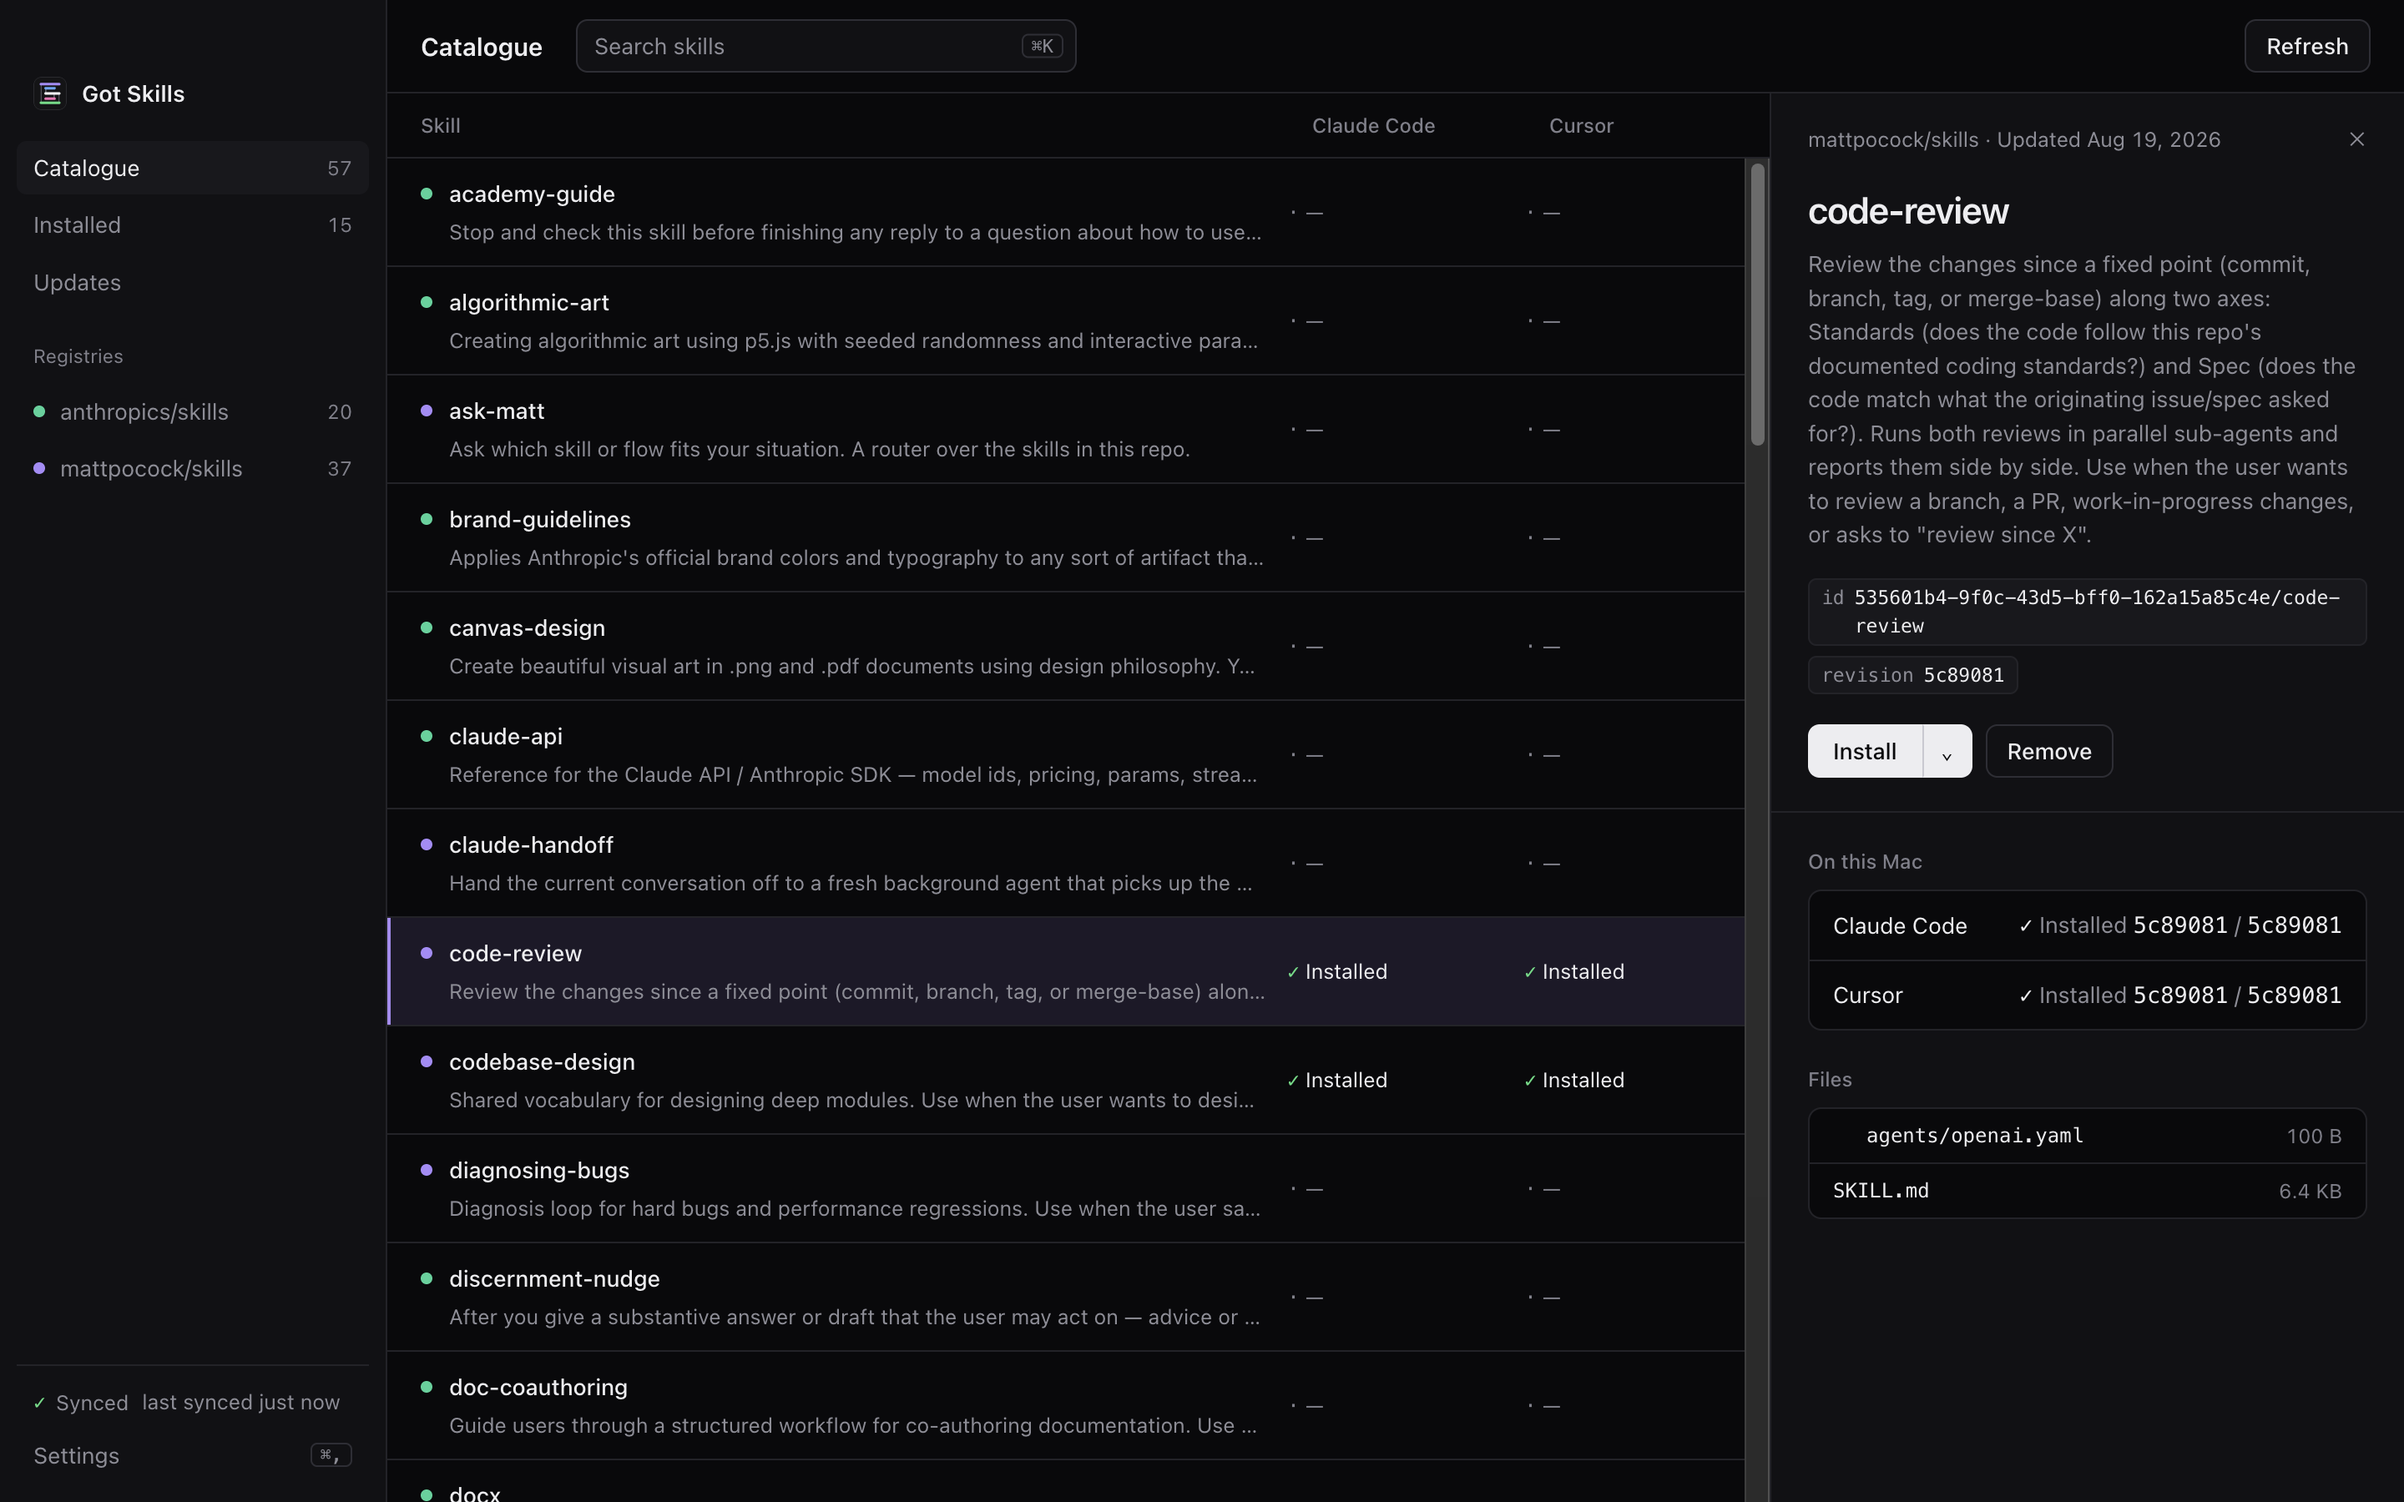
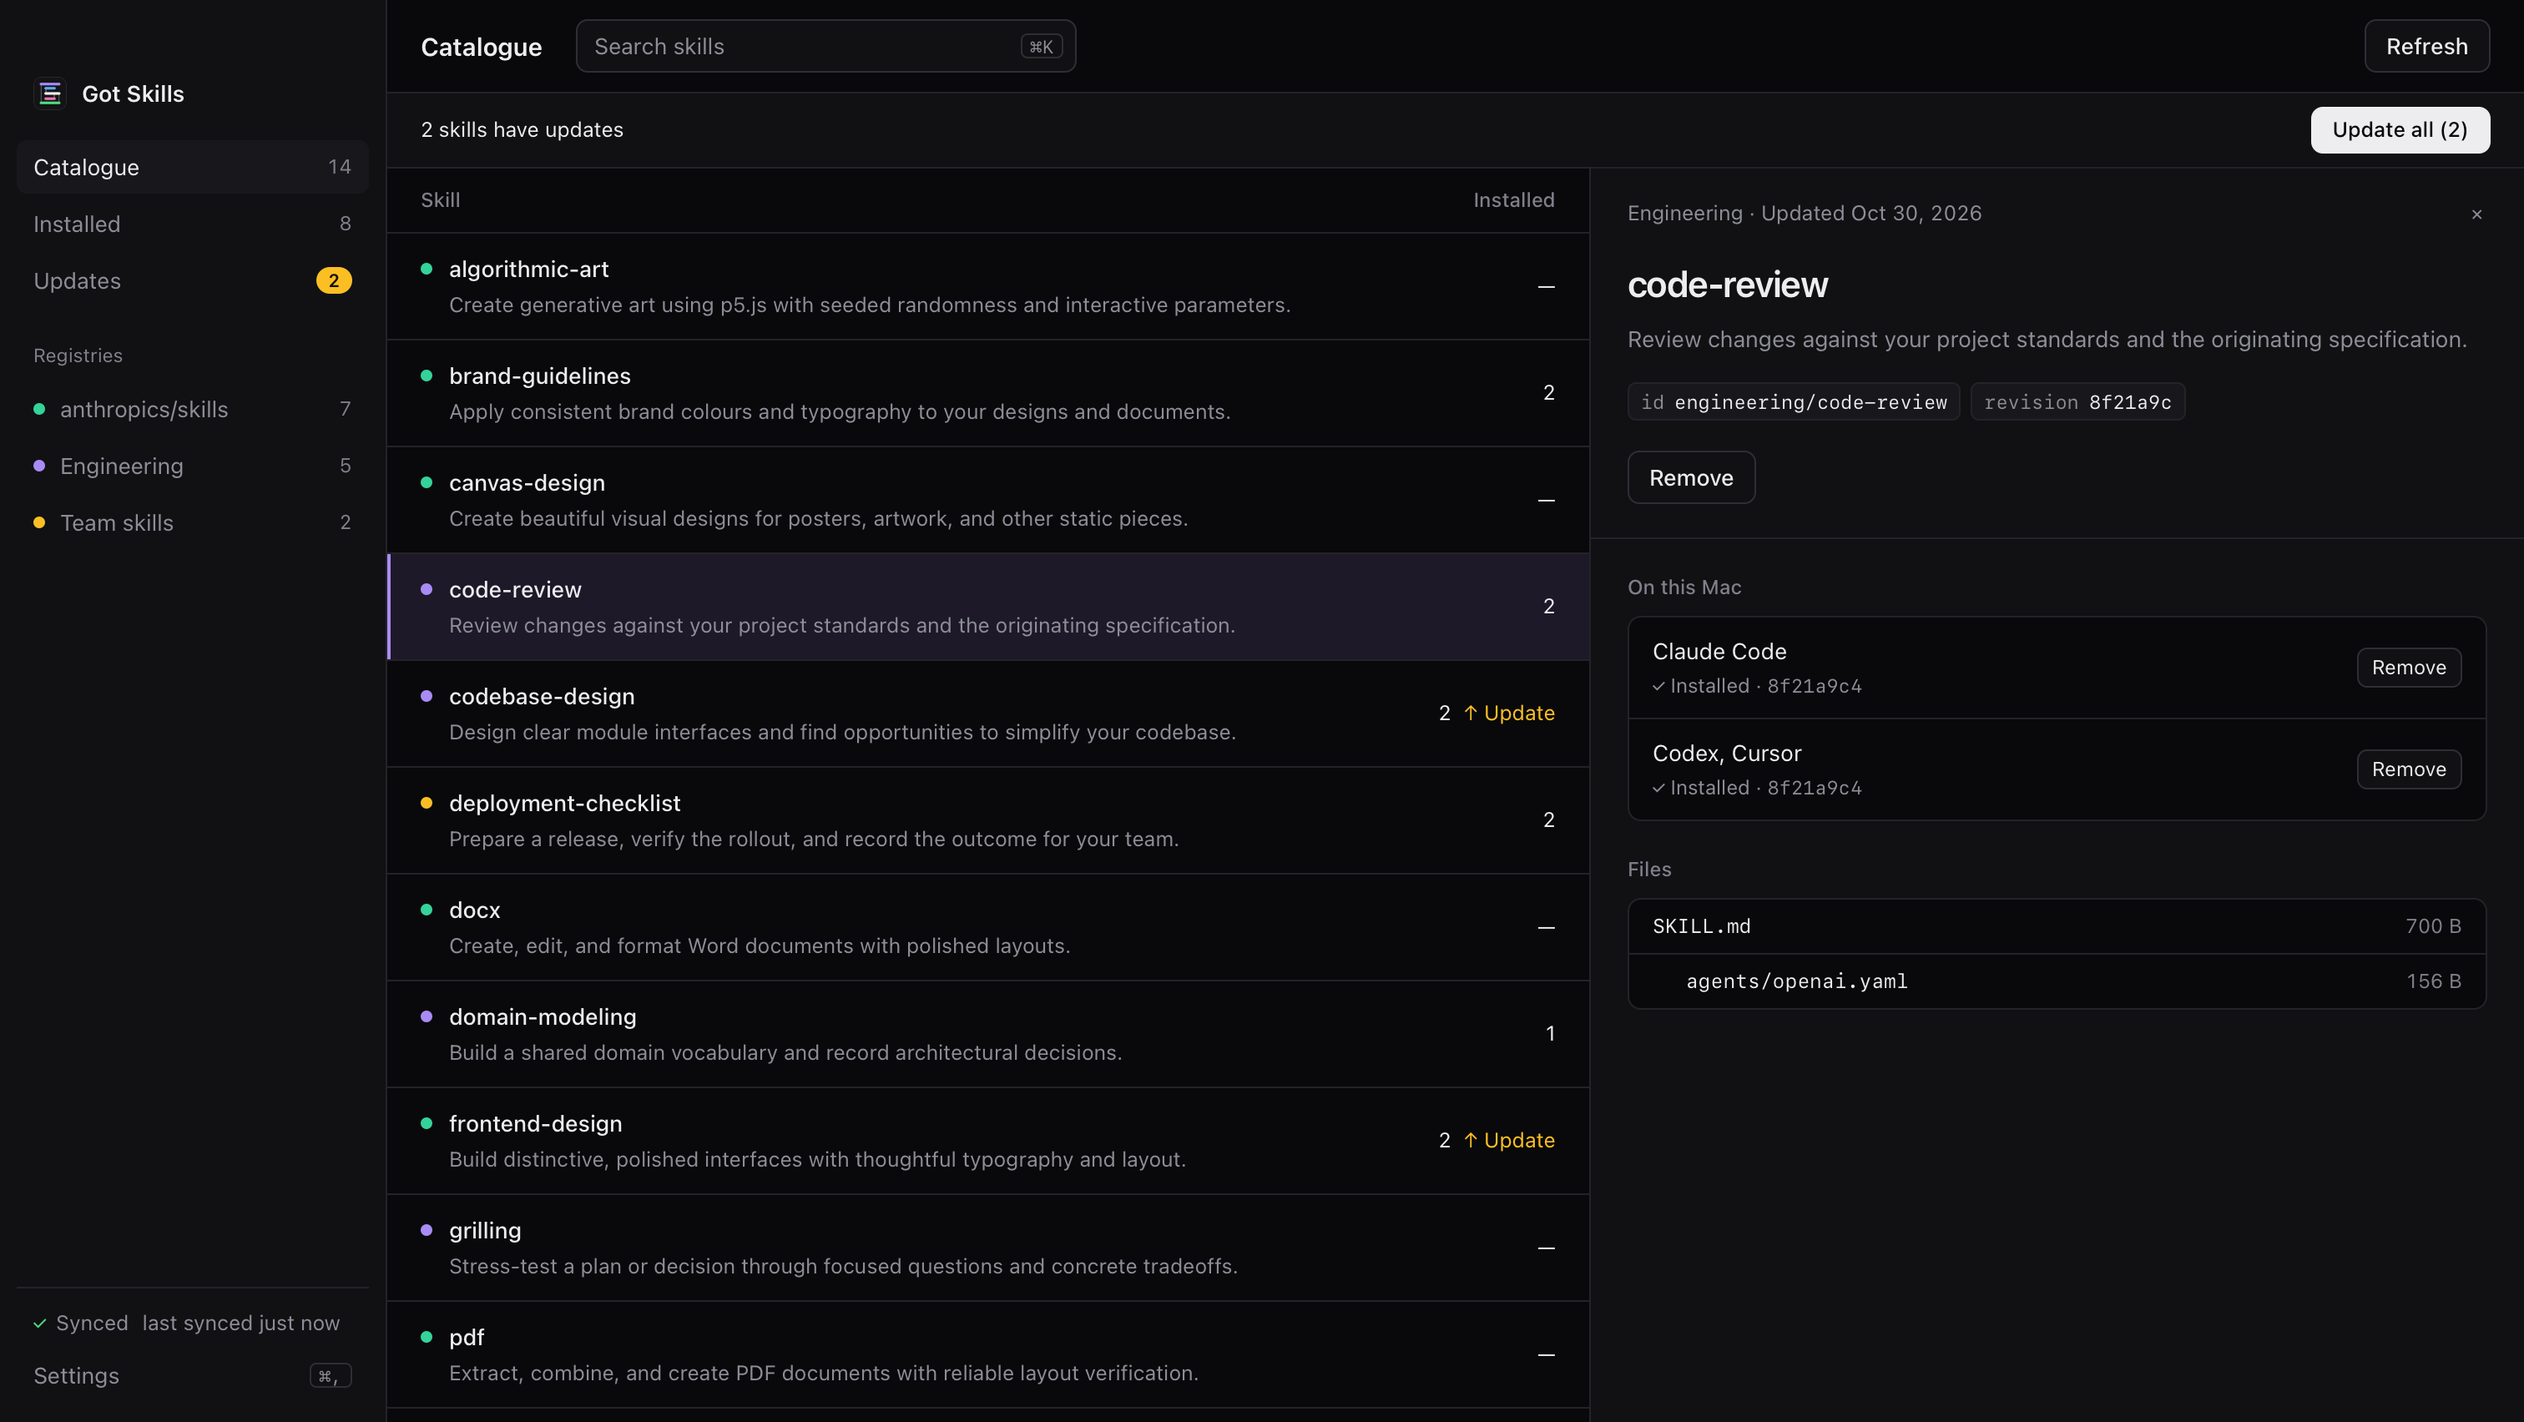
Refresh README screenshots and drop the skills.sh reference

diff --git a/README.md b/README.md
@@ -2,37 +2,76 @@
 
 **The easy way to manage your AI agent's skills.**
 
-A macOS app for browsing, installing, and updating agent skills for any agent [skills.sh](https://skills.sh) supports, including Claude Code, Cursor, Codex, Goose and many more. No command line needed.
+A macOS app for browsing, installing, and updating agent skills for Claude Code, Cursor, Codex, Goose and many more. No command line needed.
 
 ![The catalogue with a skill's details open](docs/adr/img/main.png)
 
-_Every skill from every registry in one table, showing whether each agent has it installed._
+_See installed folder counts and update alerts at a glance. Open a skill for each agent's status, actions, and files._
 
 ![Registries in Settings](docs/adr/img/settings.png)
 
-_Add any Git repository as a registry. Public and private GitHub repos both work._
+_Manage Git and local folder registries, friendly names, colours, and automatic skill updates._
+
+<details>
+<summary>Bulk installation and appearance settings</summary>
+
+![Three selected skills with destination folders and the bulk Install button](docs/adr/img/bulk-install.png)
+
+_Select several skills, choose their destination folders, and install them together._
+
+![Appearance, app updates, and registry sync settings](docs/adr/img/appearance.png)
+
+_Choose a theme and font size, control app update downloads, and set simultaneous registry syncs._
+
+</details>
+
+_Screenshots use example catalogue data._
 
 ---
 
 ## Features
 
-- **One catalogue, many registries.** Add your own, your team's, or a public
-  skill repository and browse them all together. Filter by registry, or by what's
-  installed or out of date.
-- **Install to any agent skills.sh supports.** Got Skills detects the agents on
+- **One catalogue, many registries.** Browse Catalogue, Installed, and Updates
+  from the sidebar, search skills, and filter by registry. See each registry's
+  skill count and sync health. The Installed column counts destination folders
+  and flags skills that need attention; open a skill for each agent's status.
+- **Git repositories and local folders.** Add your own, your team's, or a public
+  skill repository and choose its branch. Or add a local folder: Got Skills
+  watches for changes and picks up uncommitted edits automatically.
+- **Install to every agent on your Mac.** Got Skills detects the agents on
   your Mac and installs a copy into each agent's skills folder. Agents without a
   folder of their own, such as Cursor and Codex, share one folder,
   `~/.agents/skills`, so a single install there reaches them all. Install to one
   folder or to all of them in one click. Settings lists every supported agent,
   its folder and whether it's detected.
-- **Updates in one go.** The Updates view lists out-of-date skills and updates
-  them all at once.
+- **Install several skills at once.** Use ⌘-click to select individual skills or
+  ⇧-click to select a range, choose the destination folders, and install the
+  selection. Skills already in every chosen folder are skipped; partially
+  installed skills go into the missing folders. Follow progress or cancel after
+  the current skill.
+- **Updates in one go, or automatically.** The Updates view lists out-of-date
+  skills and lets you update them all in one run. Turn on Auto Update for a
+  registry to update its installed skills after successful syncs. It's off by
+  default, and results and failures are shown in the catalogue.
+- **Read skills before installing.** Open a skill's detail panel to browse its
+  files, preview Markdown, switch to raw text, and read supporting scripts.
+  Install, update, repair, or remove skills for individual destination folders.
+- **Registries your way.** Give registries friendly names and colours, sync
+  them individually or together, and disable a registry while keeping its
+  installed skills visible. Set how many registries sync at once in Settings.
+- **Adjust the interface.** Choose light, dark, or system appearance and one of
+  four font sizes. Press ⌘K to search and ⌘, to open Settings.
+- **App updates built in.** Check for new Got Skills releases in Settings,
+  control automatic downloads, and restart to apply a downloaded update.
 - **Private registries.** Uses the credentials system Git already has. The app
   never stores a token or account.
-- **Works offline.** The app keeps the last good sync of each registry, so you
-  can still install skills when a sync fails.
-- **Nothing gets overwritten.** If two registries ship a skill with the same name, or
-  a skill already exists outside the app, Got Skills tells you instead of replacing it.
+- **Works offline.** The app keeps the last good snapshot of each registry.
+  When a sync fails, you can still browse it and explicitly allow installations
+  or updates from that snapshot.
+- **Conflicts stay visible.** Skills with the same name from different
+  registries remain separate catalogue entries. If a destination already holds
+  that name from another registry or outside the app, installation is blocked
+  until the existing skill is removed.
 
 ## Get the app
 
@@ -52,6 +91,10 @@ cd app
 npm ci
 npm run dev          # run with hot reload
 ```
+
+From the repository root, run `npm run check` before submitting changes. It checks
+formatting, TypeScript, renderer and script tests, Rust tests, and the app size
+check's tests.
 
 | Command                 | Output                                                                    |
 | ----------------------- | ------------------------------------------------------------------------- |
